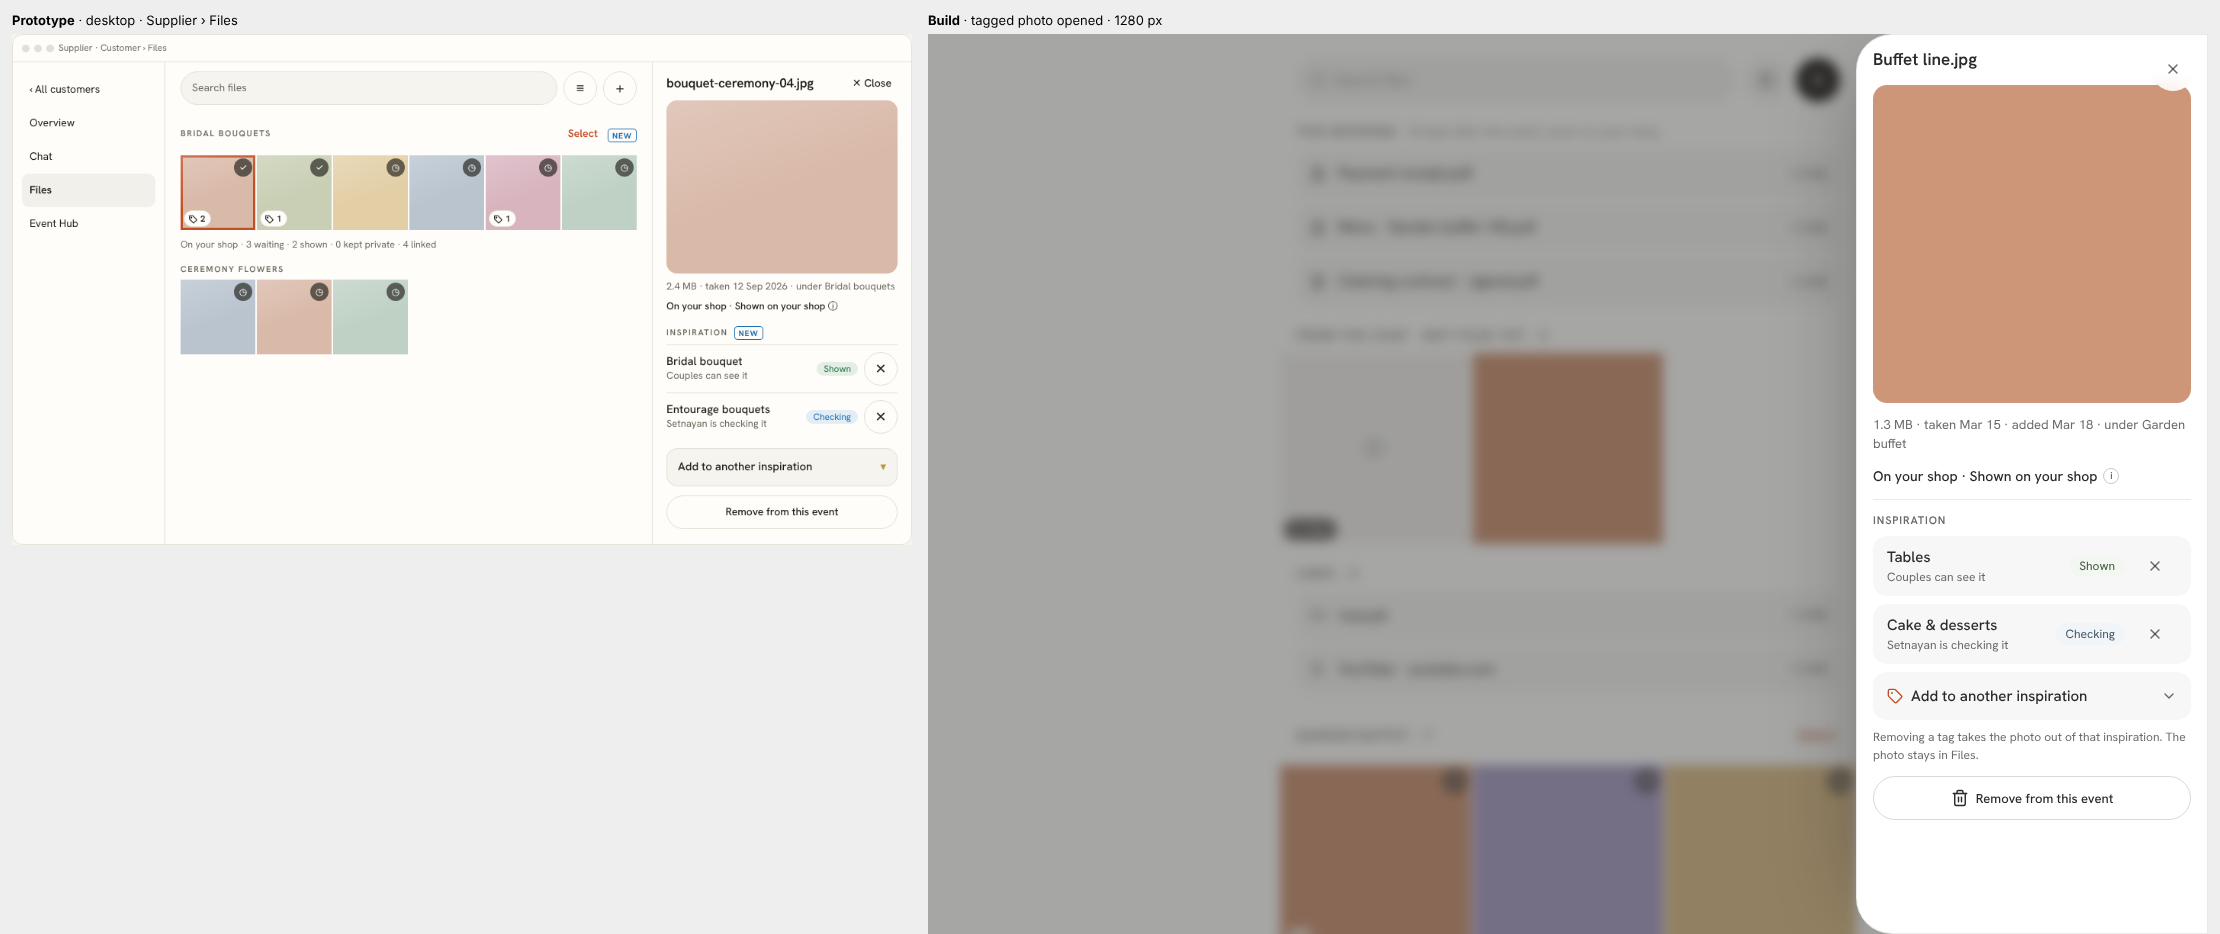
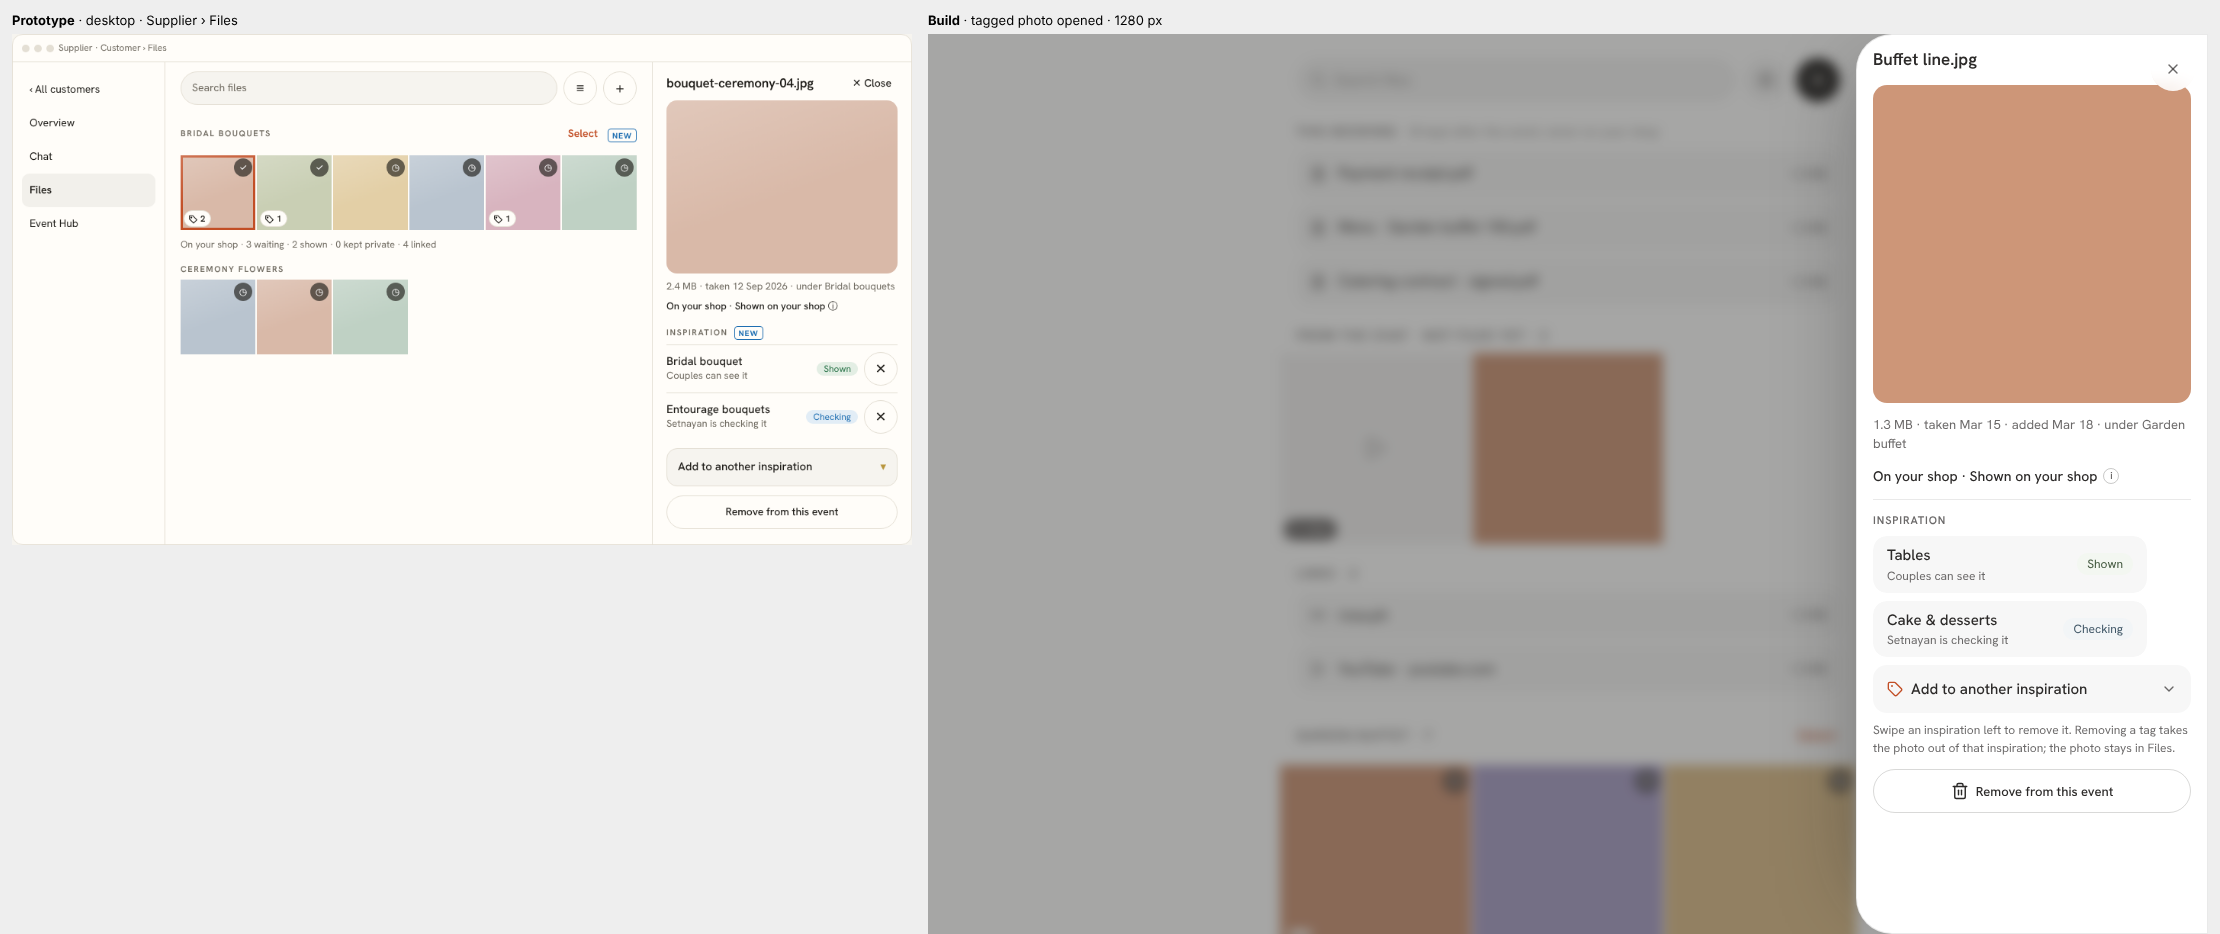
fix(inspiration): preflight — tag rows swipe to remove (no ✕ on rows), the picker reveals through the shared hook, no raw hex in the lab, anon-RPC reasons written, exposure baseline regenerated
Claude-Session: https://claude.ai/code/session_015BPJzhBuzp4zZAJKQpvNw6

diff --git a/apps/web/app/vendor-dashboard/clients/[eventId]/_components/event-files-board.tsx b/apps/web/app/vendor-dashboard/clients/[eventId]/_components/event-files-board.tsx
@@ -2,9 +2,11 @@
 
 import { useId, useMemo, useRef, useState, useTransition } from 'react';
 import Link from 'next/link';
-import { CheckCircle2, ChevronDown, Clock, EyeOff, FileText, Images, Link2, Play, Plus, Search, SlidersHorizontal, Tag, Trash2, Upload, X } from 'lucide-react';
+import { CheckCircle2, ChevronDown, Clock, EyeOff, FileText, Images, Link2, Play, Plus, Search, SlidersHorizontal, Tag, Trash2, Upload } from 'lucide-react';
 import { Sheet } from '@/app/_components/sheet';
 import { InfoTip } from '@/app/_components/info-tip';
+import { SwipeToDelete } from '@/app/_components/swipe-to-delete';
+import { useRevealOnOpen } from '@/app/_components/reveal-on-open';
 import { ActionButton } from '@/components/action-button';
 import { formatCount } from '@/lib/format-number';
 import {
@@ -801,22 +803,15 @@ function InspirationRow({
           {tags.map((t) => {
             const w = tagStateWords(t);
             return (
-              <div key={t.assetId} className="flex min-h-12 items-center gap-2 rounded-xl bg-ink/[0.04] px-3.5 py-2" data-files-tag={t.state}>
-                <span className="min-w-0 flex-1">
-                  <span className="block text-[15px] font-medium text-ink">{t.label}</span>
-                  <span className="block text-[12px] text-ink/60">{w.line}</span>
-                </span>
-                <span className={`flex-none rounded-full px-2.5 py-0.5 text-[12px] ${PILL[t.state]}`}>{w.pill}</span>
-                <button
-                  type="button"
-                  disabled={busy}
-                  onClick={() => onUntag(t.assetId)}
-                  aria-label={`Remove from ${t.label}`}
-                  className="inline-flex h-11 w-11 flex-none items-center justify-center rounded-full text-ink/60 disabled:opacity-40"
-                >
-                  <X className="h-4 w-4" aria-hidden />
-                </button>
-              </div>
+              <SwipeToDelete key={t.assetId} label={`Remove from ${t.label}`} word="Remove" busy={busy} onDelete={() => onUntag(t.assetId)}>
+                <div className="flex min-h-12 items-center gap-2 rounded-xl bg-ink/[0.04] px-3.5 py-2" data-files-tag={t.state}>
+                  <span className="min-w-0 flex-1">
+                    <span className="block text-[15px] font-medium text-ink">{t.label}</span>
+                    <span className="block text-[12px] text-ink/60">{w.line}</span>
+                  </span>
+                  <span className={`flex-none rounded-full px-2.5 py-0.5 text-[12px] ${PILL[t.state]}`}>{w.pill}</span>
+                </div>
+              </SwipeToDelete>
             );
           })}
           <TagPicker
@@ -858,17 +853,20 @@ function TagPicker({
   const [picked, setPicked] = useState<string[]>([]);
   const [rights, setRights] = useState(false);
   const listId = useId();
+  const boxRef = useRef<HTMLDivElement>(null);
+  // The list opens below the sheet's fold — the shared reveal brings it into view, as every fold does.
+  const intend = useRevealOnOpen(open, () => ({ head: boxRef.current }));
   if (options.length === 0) {
     return <p className="text-[13px] text-ink/60">Your {cardTitle} card does not offer another inspiration.</p>;
   }
   const close = () => (setOpen(false), setPicked([]), setRights(false), onCancel?.());
   return (
-    <div className="space-y-2" data-files-tag-picker={open ? 'open' : 'closed'}>
+    <div ref={boxRef} className="space-y-2" data-files-tag-picker={open ? 'open' : 'closed'}>
       <button
         type="button"
         aria-expanded={open}
         aria-controls={listId}
-        onClick={() => (open ? close() : setOpen(true))}
+        onClick={() => (open ? close() : (intend(), setOpen(true)))}
         className="flex min-h-12 w-full items-center gap-2 rounded-xl bg-ink/[0.04] px-3.5 text-left text-[15px] text-ink"
       >
         <Tag className="h-4 w-4 flex-none text-sn-accent" aria-hidden />

diff --git a/apps/web/app/dev/files-lab/lab-client.tsx b/apps/web/app/dev/files-lab/lab-client.tsx
@@ -96,10 +96,10 @@ const openTile = (name: string) => {
 // 🏷 The couple's side (frames 8 · 9 · 11) and the shop page (frame 10) — fixture photos, no database.
 const LINE = 'Wedding · Makati Shangri-La · Sep 2026';
 const LIB: GalleryAsset[] = [
-  { assetId: 'a1', imageUrl: tile(3), label: '', credit: 'Rosa Mendoza Catering · Caterer', vendorProfileId: SHOP, shopSlug: 'rosa', swatches: ['#c8907a', '#e9d8c4'], isEventLinked: true, eventLine: LINE, alsoIn: [{ slotKey: 'cake', label: 'Cake & desserts' }] },
-  { assetId: 'a2', imageUrl: tile(1), label: '', credit: 'Rosa Mendoza Catering · Caterer', vendorProfileId: SHOP, shopSlug: 'rosa', swatches: ['#a99fc8'], isEventLinked: true, eventLine: 'Debut · Tagaytay Highlands · Aug 2026', alsoIn: [] },
-  { assetId: 'a3', imageUrl: tile(2), label: 'Grazing table', credit: 'Rosa Mendoza Catering · Caterer', vendorProfileId: SHOP, shopSlug: 'rosa', swatches: ['#d9c08a'], isEventLinked: false },
-  { assetId: 'a4', imageUrl: tile(0), label: 'Long table', credit: 'Casa Verde Styling · Stylist', vendorProfileId: SHOP, shopSlug: null, swatches: ['#9bb894'], isEventLinked: false },
+  { assetId: 'a1', imageUrl: tile(3), label: '', credit: 'Rosa Mendoza Catering · Caterer', vendorProfileId: SHOP, shopSlug: 'rosa', swatches: [], isEventLinked: true, eventLine: LINE, alsoIn: [{ slotKey: 'cake', label: 'Cake & desserts' }] },
+  { assetId: 'a2', imageUrl: tile(1), label: '', credit: 'Rosa Mendoza Catering · Caterer', vendorProfileId: SHOP, shopSlug: 'rosa', swatches: [], isEventLinked: true, eventLine: 'Debut · Tagaytay Highlands · Aug 2026', alsoIn: [] },
+  { assetId: 'a3', imageUrl: tile(2), label: 'Grazing table', credit: 'Rosa Mendoza Catering · Caterer', vendorProfileId: SHOP, shopSlug: 'rosa', swatches: [], isEventLinked: false },
+  { assetId: 'a4', imageUrl: tile(0), label: 'Long table', credit: 'Casa Verde Styling · Stylist', vendorProfileId: SHOP, shopSlug: null, swatches: [], isEventLinked: false },
 ];
 const libPage = (assets: GalleryAsset[]) => async () => ({ assets, total: assets.length, withheld: 0, offset: 0, limit: 24, hasMore: false });
 

diff --git a/apps/web/lib/inspiration-tags.ts b/apps/web/lib/inspiration-tags.ts
@@ -62,7 +62,7 @@ export function tagStateWords(t: Pick<FileTag, 'state' | 'reason'>): { pill: str
 }
 
 /** The line under the list (frame 5) — the photo stays in Files whatever happens to a tag. */
-export const UNTAG_LINE = 'Removing a tag takes the photo out of that inspiration. The photo stays in Files.';
+export const UNTAG_LINE = 'Swipe an inspiration left to remove it. Removing a tag takes the photo out of that inspiration; the photo stays in Files.';
 /** Frame 3's note — the inspiration points at this same photo. */
 export const BY_REFERENCE_LINE = 'The photo is not copied. The inspiration points to this same photo.';
 /** Frame 4's note — one service at a time, so the list fits every picked photo. */
